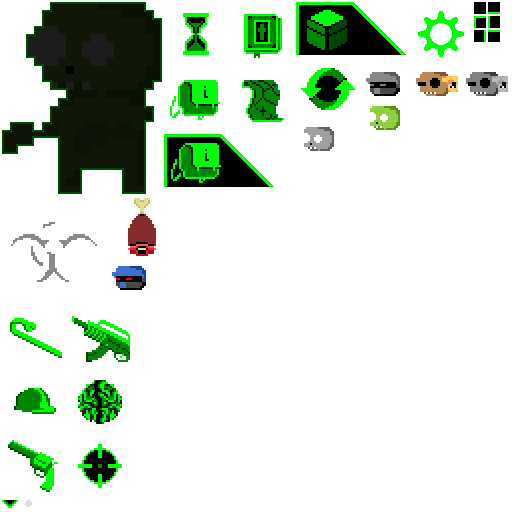
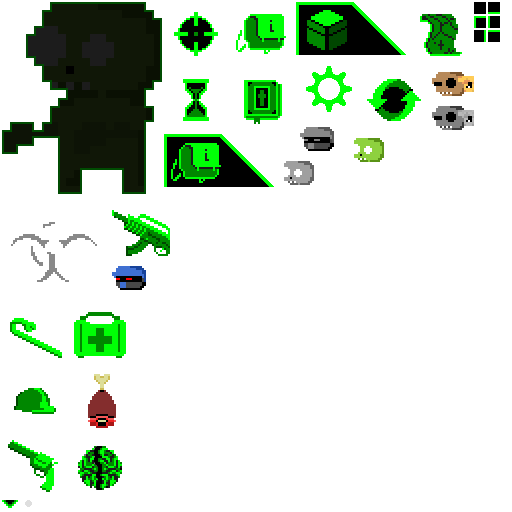
Medkit updated and action bar updated

diff --git a/bitengine/Game/Game.cpp b/bitengine/Game/Game.cpp
@@ -5,10 +5,10 @@
 bit::Game::Game()
 {
     running = true;
-	actualTime = clock.getElapsedTime().asSeconds();
-	timer = 0.0f;
-	FPS = 60.0f;
-	dt = 1.0f / FPS;
+    actualTime = clock.getElapsedTime().asSeconds();
+    timer = 0.0f;
+    FPS = 60.0f;
+    dt = 1.0f / FPS;
 
     stateStack = new StateStack(this);
     gameComponents.push_back(stateStack);
@@ -23,44 +23,44 @@ void bit::Game::run()
 {
     registerStates();
 
-	// Game loop
-	running = true;
-	while (running)
-	{
-		// UPDATE at fixed intervals
-		float newTime = clock.getElapsedTime().asSeconds();
-		float frameTime = newTime - actualTime;
-		if(frameTime > 0.25f)
-		{
-			frameTime = 0.25f; // Avoid spiral of death
-		}
-		timer += frameTime;
+    // Game loop
+    running = true;
+    while (running)
+    {
+        // UPDATE at fixed intervals
+        float newTime = clock.getElapsedTime().asSeconds();
+        float frameTime = newTime - actualTime;
+        if(frameTime > 0.25f)
+        {
+            frameTime = 0.25f; // Avoid spiral of death
+        }
+        timer += frameTime;
 
-		// Run update in dt sized chunks
-		while(timer >= dt)
-		{
+        // Run update in dt sized chunks
+        while(timer >= dt)
+        {
             sf::Time gtu = sf::seconds(dt);
- 			update(gtu);
-			timer -= dt;
-		}
+            update(gtu);
+            timer -= dt;
+        }
 
-		actualTime = newTime;
-	}
+        actualTime = newTime;
+    }
 }
 
 void bit::Game::update(sf::Time &gameTime)
 {
     // Update various managers and components
-	for(unsigned int i=0; i<gameComponents.size(); i++)
-	{
-		gameComponents[i]->update(gameTime);
-	}
+    for(unsigned int i=0; i<gameComponents.size(); i++)
+    {
+        gameComponents[i]->update(gameTime);
+    }
 
     // Quit if no states
     if(stateStack->empty())
-	{
-		quit();
-	}
+    {
+        quit();
+    }
 }
 
 void bit::Game::registerStates()

diff --git a/client/StateGamePlay.cpp b/client/StateGamePlay.cpp
@@ -773,31 +773,24 @@ void StateGamePlay::handlePacket_ServerEvent(bit::ServerPacket &packet)
                 break;
             case ServerEvent::ItemAdded:
                 levelClient->playerCharacter->handleServerEventPacket_itemAdded(packet);
-                //hud->inventory->buildItemList();
                 break;
             case ServerEvent::ItemUpdated:
                 levelClient->playerCharacter->handleServerEventPacket_itemUpdated(packet);
-                //hud->inventory->buildItemList();
                 break;
             case ServerEvent::ItemRemoved:
                 levelClient->playerCharacter->handleServerEventPacket_itemRemoved(packet);
-                //hud->inventory->buildItemList();
                 break;
             case ServerEvent::EquipmentAdded:
                 levelClient->playerCharacter->handleServerEventPacket_equipmentAdded(packet);
-                //hud->inventory->buildEquipment();
                 break;
             case ServerEvent::EquipmentUpdated:
                 levelClient->playerCharacter->handleServerEventPacket_equipmentUpdated(packet);
-                //hud->inventory->buildEquipment();
                 break;
             case ServerEvent::EquipmentRemoved:
                 levelClient->playerCharacter->handleServerEventPacket_equipmentRemoved(packet);
-                //hud->inventory->buildEquipment();
                 break;
             case ServerEvent::EquipmentSwapped:
                 levelClient->playerCharacter->handleServerEventPacket_equipmentSwapped(packet);
-                //hud->inventory->buildEquipment();
                 break;
 
             case ServerEvent::CombatTurnStart:

diff --git a/server/items/Item.cpp b/server/items/Item.cpp
@@ -345,6 +345,8 @@ Item* Item::create(Type type, unsigned int id)
             i->schema.CategoryWeapon = ItemCategory::Weapon::WeaponNone;
             i->schema.weight = 1;
             i->schema.effectiveRangeInTiles = 0;
+            i->schema.minimumDamage = 10;
+            i->schema.maximumDamage = 20;
             i->schema.commandType = CommandType::CommandTypeSelf;
 
             break;
@@ -432,7 +434,7 @@ std::string Item::getSpriteName(Type type)
         case Type::Z4Rifle:
             return "Z4Rifle";
 
-        case Type::Crowbar: 
+        case Type::Crowbar:
             return "Crowbar";
     }
 }
@@ -456,6 +458,9 @@ std::string Item::getIconName(Type type)
 
         case Type::Crowbar:
             return "Crowbar";
+
+        case Type::Medkit:
+            return "Medkit";
     }
 }
 
@@ -482,7 +487,7 @@ bool Item::applyItemOnSelf(Character* character, Item::Schema &itemSchema)
         case Medkit:
         {
             // Heal the character
-            character->heal(20);
+            character->heal(bit::Math::random(itemSchema.minimumDamage, itemSchema.maximumDamage));
             return true;
         }
     }

diff --git a/bitengine/Game/Game.hpp b/bitengine/Game/Game.hpp
@@ -16,32 +16,32 @@ namespace bit
     class GameComponent;
     class StateStack;
 
-	class Game
-	{
-	public:
- 		Game();
+    class Game
+    {
+    public:
+        Game();
 
         virtual ~Game();
 
         StateStack* stateStack;
-		std::vector<GameComponent*> gameComponents;
-		sf::Clock clock;
-		float FPS;
+        std::vector<GameComponent*> gameComponents;
+        sf::Clock clock;
+        float FPS;
 
-		void run();
+        void run();
 
-		virtual void update(sf::Time &gameTime);
+        virtual void update(sf::Time &gameTime);
 
         virtual void registerStates();
 
         void quit();
 
-	protected:
-		float actualTime;
-		float dt;
-		float timer;
+    protected:
+        float actualTime;
+        float dt;
+        float timer;
         bool running;
-	};
+    };
 }
 
 #endif

diff --git a/client/hud/InventoryItemLabel.cpp b/client/hud/InventoryItemLabel.cpp
@@ -27,12 +27,8 @@ InventoryItemLabel::InventoryItemLabel(Hud* hud, Item::Schema& itemSchema, float
         // If I am in the action bar
         if(label->currentActionSlot)
         {
-            // Check if the item can be interracted with
-
             // Notify the game state of the wish to operate an item based command passing the item
             hud->state->requestItemCommand(label->itemSchema);
-
-            // The state will handle the targetting and eventual networking if continued
         }
 
     };

diff --git a/client/hud/ActionBarSlot.cpp b/client/hud/ActionBarSlot.cpp
@@ -32,7 +32,8 @@ void ActionBarSlot::removeItemLabel()
 
 bool ActionBarSlot::acceptsLabel(InventoryItemLabel* label)
 {
-    return true;
+    // Must be an interacteable item type
+    return label->itemSchema.commandType != Item::CommandType::CommandTypeNone;
 }
 
 unsigned int ActionBarSlot::addChild(Element* child)

diff --git a/server/Character.cpp b/server/Character.cpp
@@ -469,7 +469,6 @@ void Character::attack(Character* character)
 void Character::heal(int amount)
 {
     schema.health = bit::Math::clamp(schema.health + amount, 0, schema.maxHealth);
-
 }
 
 void Character::harm(int damage)
